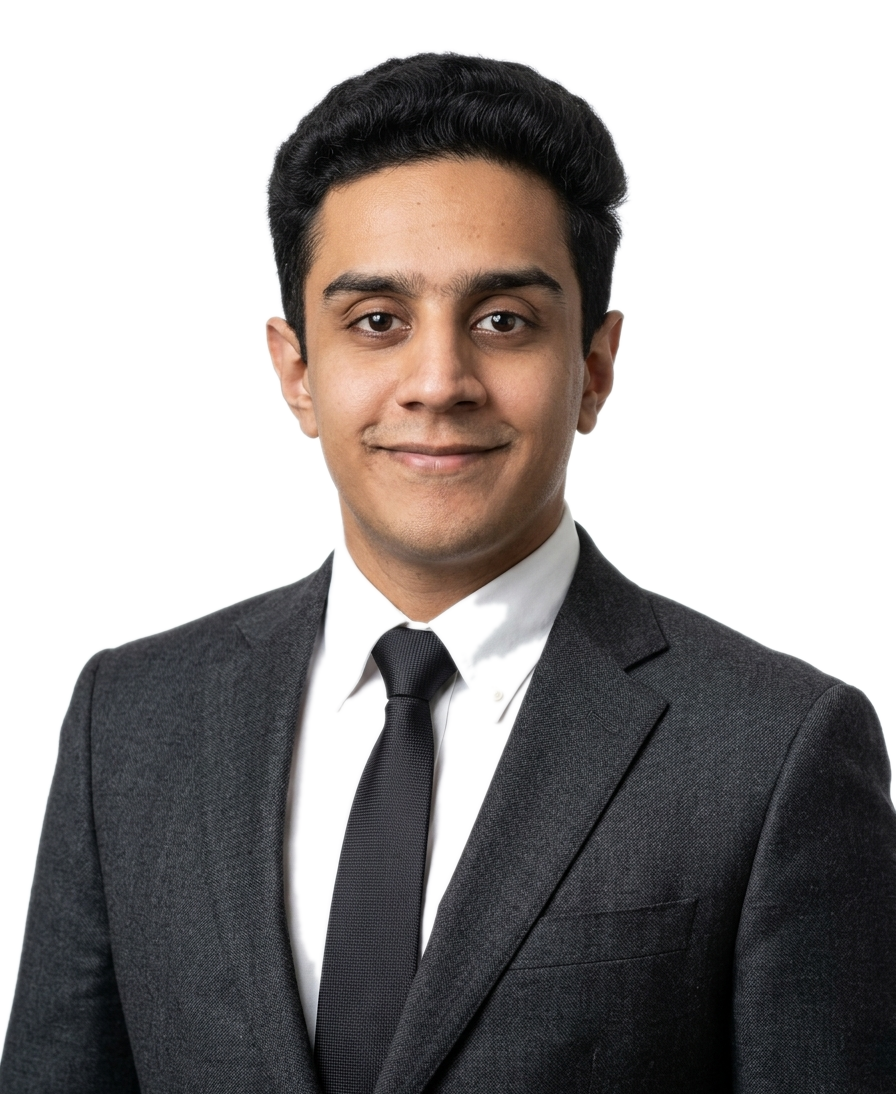
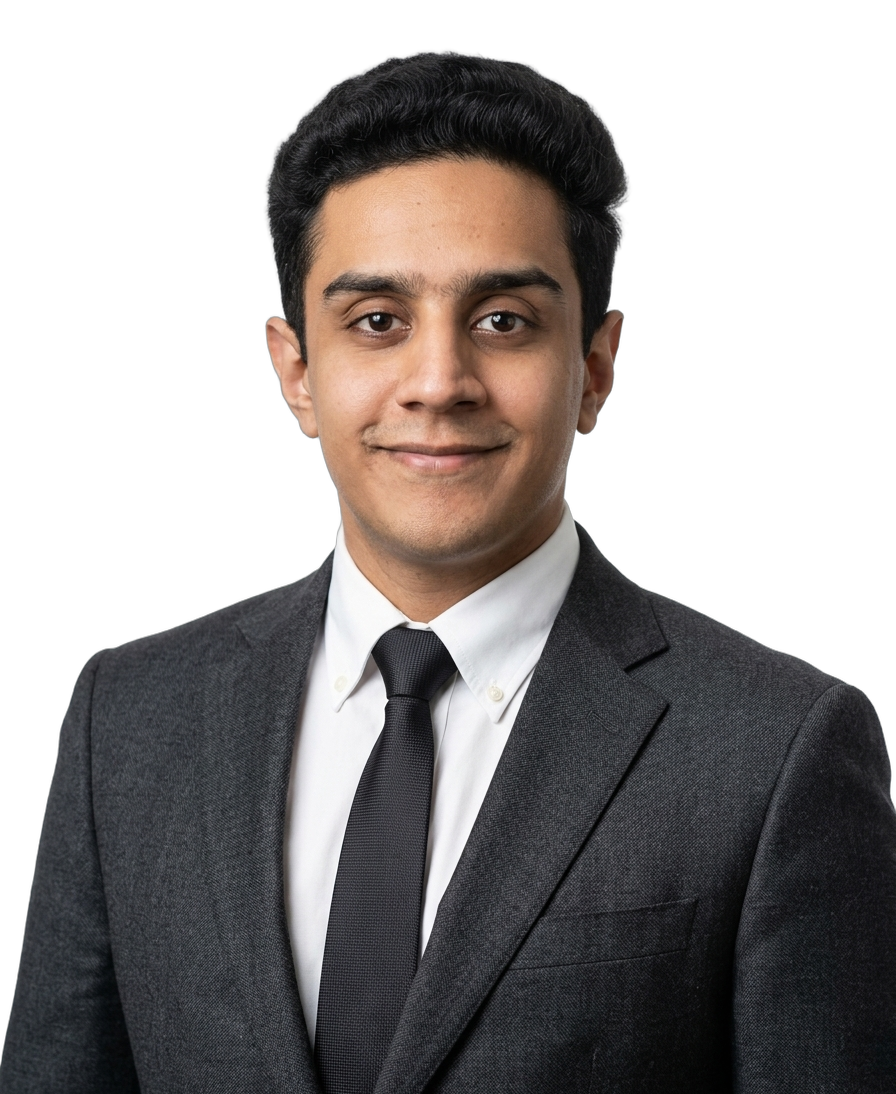
Refine hero glitch effect to subtle hologram and restore solid crisp white shirt definition

diff --git a/portfolio_v2.html b/portfolio_v2.html
@@ -108,17 +108,17 @@
       transform-style: preserve-3d;
     }
 
-    /* Base Character Image */
+    /* Base Character Image - Crisp white shirt and sharp definition */
     .hero-char-img {
       display: block;
       width: 100%;
       height: auto;
-      max-height: 480px;
+      max-height: 490px;
       object-fit: contain;
-      filter: drop-shadow(0 0 25px rgba(0, 242, 254, 0.15));
+      filter: drop-shadow(0 0 20px rgba(0, 242, 254, 0.12));
       transition: filter 0.3s ease;
-      -webkit-mask-image: linear-gradient(to bottom, black 82%, transparent 100%);
-      mask-image: linear-gradient(to bottom, black 82%, transparent 100%);
+      -webkit-mask-image: linear-gradient(to bottom, black 95%, transparent 100%);
+      mask-image: linear-gradient(to bottom, black 95%, transparent 100%);
     }
 
     /* Glitch layers */
@@ -133,36 +133,37 @@
       background-position: center bottom;
       pointer-events: none;
       opacity: 0;
-      -webkit-mask-image: linear-gradient(to bottom, black 82%, transparent 100%);
-      mask-image: linear-gradient(to bottom, black 82%, transparent 100%);
+      -webkit-mask-image: linear-gradient(to bottom, black 95%, transparent 100%);
+      mask-image: linear-gradient(to bottom, black 95%, transparent 100%);
+      transition: opacity 0.3s ease;
     }
 
-    /* Active Glitch Animations on Hover */
+    /* Toned-down, Elegant Hologram Glitch on Hover */
     .hero-glitch-wrapper:hover .hero-char-img {
-      filter: drop-shadow(0 0 35px rgba(0, 242, 254, 0.4)) contrast(1.1);
+      filter: drop-shadow(0 0 25px rgba(0, 242, 254, 0.22)) contrast(1.03);
     }
 
     .hero-glitch-wrapper:hover .glitch-red {
-      opacity: 0.85;
-      animation: glitchRed 0.22s steps(2, end) infinite;
+      opacity: 0.35;
+      animation: glitchRedSoft 0.85s ease-in-out infinite;
       mix-blend-mode: screen;
-      filter: drop-shadow(-3px 0 #ff0055);
+      filter: drop-shadow(-1.5px 0 #ff0055);
     }
 
     .hero-glitch-wrapper:hover .glitch-cyan {
-      opacity: 0.85;
-      animation: glitchCyan 0.26s steps(2, end) infinite;
+      opacity: 0.35;
+      animation: glitchCyanSoft 0.85s ease-in-out infinite;
       mix-blend-mode: screen;
-      filter: drop-shadow(3px 0 #00f2fe);
+      filter: drop-shadow(1.5px 0 #00f2fe);
     }
 
     .hero-glitch-wrapper:hover .glitch-slice {
-      opacity: 0.9;
-      animation: glitchSlice 0.35s steps(4, end) infinite;
+      opacity: 0.22;
+      animation: glitchSliceSoft 1.3s ease-in-out infinite;
     }
 
     .hero-glitch-wrapper:hover .glitch-scanlines {
-      opacity: 0.45;
+      opacity: 0.2;
     }
 
     /* Scanlines Overlay */
@@ -174,38 +175,36 @@
       background: repeating-linear-gradient(
         to bottom,
         transparent 0px,
-        transparent 2px,
-        rgba(0, 242, 254, 0.08) 2px,
-        rgba(0, 242, 254, 0.08) 4px
+        transparent 3px,
+        rgba(0, 242, 254, 0.05) 3px,
+        rgba(0, 242, 254, 0.05) 5px
       );
-      transition: opacity 0.2s ease;
+      transition: opacity 0.3s ease;
       z-index: 20;
     }
 
-    /* Glitch Keyframes */
-    @keyframes glitchRed {
-      0% { transform: translate(-3px, 1px) skewX(-1deg); clip-path: inset(10% 0 75% 0); }
-      25% { transform: translate(3px, -2px) skewX(1.5deg); clip-path: inset(45% 0 35% 0); }
-      50% { transform: translate(-4px, -1px) skewX(-2deg); clip-path: inset(70% 0 10% 0); }
-      75% { transform: translate(2px, 2px) skewX(1deg); clip-path: inset(20% 0 60% 0); }
-      100% { transform: translate(-3px, 1px) skewX(-1deg); clip-path: inset(10% 0 75% 0); }
+    /* Toned-down, Non-flashy Micro-Glitch Keyframes */
+    @keyframes glitchRedSoft {
+      0%, 100% { transform: translate(0, 0); clip-path: inset(0 0 0 0); }
+      15% { transform: translate(-1.5px, 0.5px); clip-path: inset(20% 0 65% 0); }
+      30% { transform: translate(1px, -0.5px); clip-path: inset(55% 0 30% 0); }
+      45% { transform: translate(-1px, 0); clip-path: inset(10% 0 80% 0); }
+      60%, 85% { transform: translate(0, 0); clip-path: inset(0 0 0 0); }
     }
 
-    @keyframes glitchCyan {
-      0% { transform: translate(4px, -1px) skewX(1.5deg); clip-path: inset(60% 0 20% 0); }
-      25% { transform: translate(-3px, 2px) skewX(-1deg); clip-path: inset(15% 0 65% 0); }
-      50% { transform: translate(3px, -1px) skewX(2deg); clip-path: inset(35% 0 45% 0); }
-      75% { transform: translate(-2px, -2px) skewX(-1.5deg); clip-path: inset(80% 0 5% 0); }
-      100% { transform: translate(4px, -1px) skewX(1.5deg); clip-path: inset(60% 0 20% 0); }
+    @keyframes glitchCyanSoft {
+      0%, 100% { transform: translate(0, 0); clip-path: inset(0 0 0 0); }
+      20% { transform: translate(1.5px, -0.5px); clip-path: inset(65% 0 15% 0); }
+      40% { transform: translate(-1px, 0.5px); clip-path: inset(30% 0 55% 0); }
+      55% { transform: translate(1px, 0); clip-path: inset(75% 0 10% 0); }
+      70%, 90% { transform: translate(0, 0); clip-path: inset(0 0 0 0); }
     }
 
-    @keyframes glitchSlice {
-      0% { transform: translateX(0); clip-path: inset(30% 0 50% 0); }
-      20% { transform: translateX(-6px); clip-path: inset(12% 0 78% 0); }
-      40% { transform: translateX(6px); clip-path: inset(58% 0 22% 0); }
-      60% { transform: translateX(-4px); clip-path: inset(82% 0 8% 0); }
-      80% { transform: translateX(5px); clip-path: inset(40% 0 42% 0); }
-      100% { transform: translateX(0); clip-path: inset(30% 0 50% 0); }
+    @keyframes glitchSliceSoft {
+      0%, 100% { transform: translateX(0); clip-path: inset(0 0 0 0); }
+      25% { transform: translateX(-2px); clip-path: inset(42% 0 48% 0); }
+      50% { transform: translateX(2px); clip-path: inset(18% 0 72% 0); }
+      75% { transform: translateX(-1px); clip-path: inset(68% 0 22% 0); }
     }
 
     /* Ambient telemetry ring rotation */
@@ -369,11 +368,6 @@
 
                 <!-- Scanlines Grid -->
                 <div class="glitch-scanlines"></div>
-
-                <!-- Hover Tip Cue -->
-                <div class="absolute bottom-2 left-1/2 -translate-x-1/2 z-20 px-3 py-1 rounded-full bg-obsidian-900/80 border border-white/[0.08] text-[10px] font-mono text-slate-400 whitespace-nowrap pointer-events-none opacity-80 group-hover:opacity-0 transition-opacity">
-                  [ HOVER FOR NEURAL GLITCH ]
-                </div>
 
               </div>
             </div>
@@ -916,15 +910,15 @@
           const x = e.clientX - rect.left - rect.width / 2;
           const y = e.clientY - rect.top - rect.height / 2;
           
-          // Subtle 3D tilt
-          const tiltX = (y / (rect.height / 2)) * -10;
-          const tiltY = (x / (rect.width / 2)) * 10;
-          glitchStage.style.transform = `rotateX(${tiltX.toFixed(2)}deg) rotateY(${tiltY.toFixed(2)}deg) scale3d(1.03, 1.03, 1.03)`;
+          // Subtle, smooth 3D tilt
+          const tiltX = (y / (rect.height / 2)) * -5;
+          const tiltY = (x / (rect.width / 2)) * 5;
+          glitchStage.style.transform = `rotateX(${tiltX.toFixed(2)}deg) rotateY(${tiltY.toFixed(2)}deg) scale3d(1.02, 1.02, 1.02)`;
 
-          // Dynamic Chromatic Aberration offset based on cursor speed/position
+          // Subtle Chromatic Aberration offset based on cursor position
           if (redLayer && cyanLayer) {
-            const offsetX = (x / (rect.width / 2)) * 8;
-            const offsetY = (y / (rect.height / 2)) * 4;
+            const offsetX = (x / (rect.width / 2)) * 2.5;
+            const offsetY = (y / (rect.height / 2)) * 1.5;
             redLayer.style.transform = `translate(${-offsetX}px, ${offsetY}px)`;
             cyanLayer.style.transform = `translate(${offsetX}px, ${-offsetY}px)`;
           }
